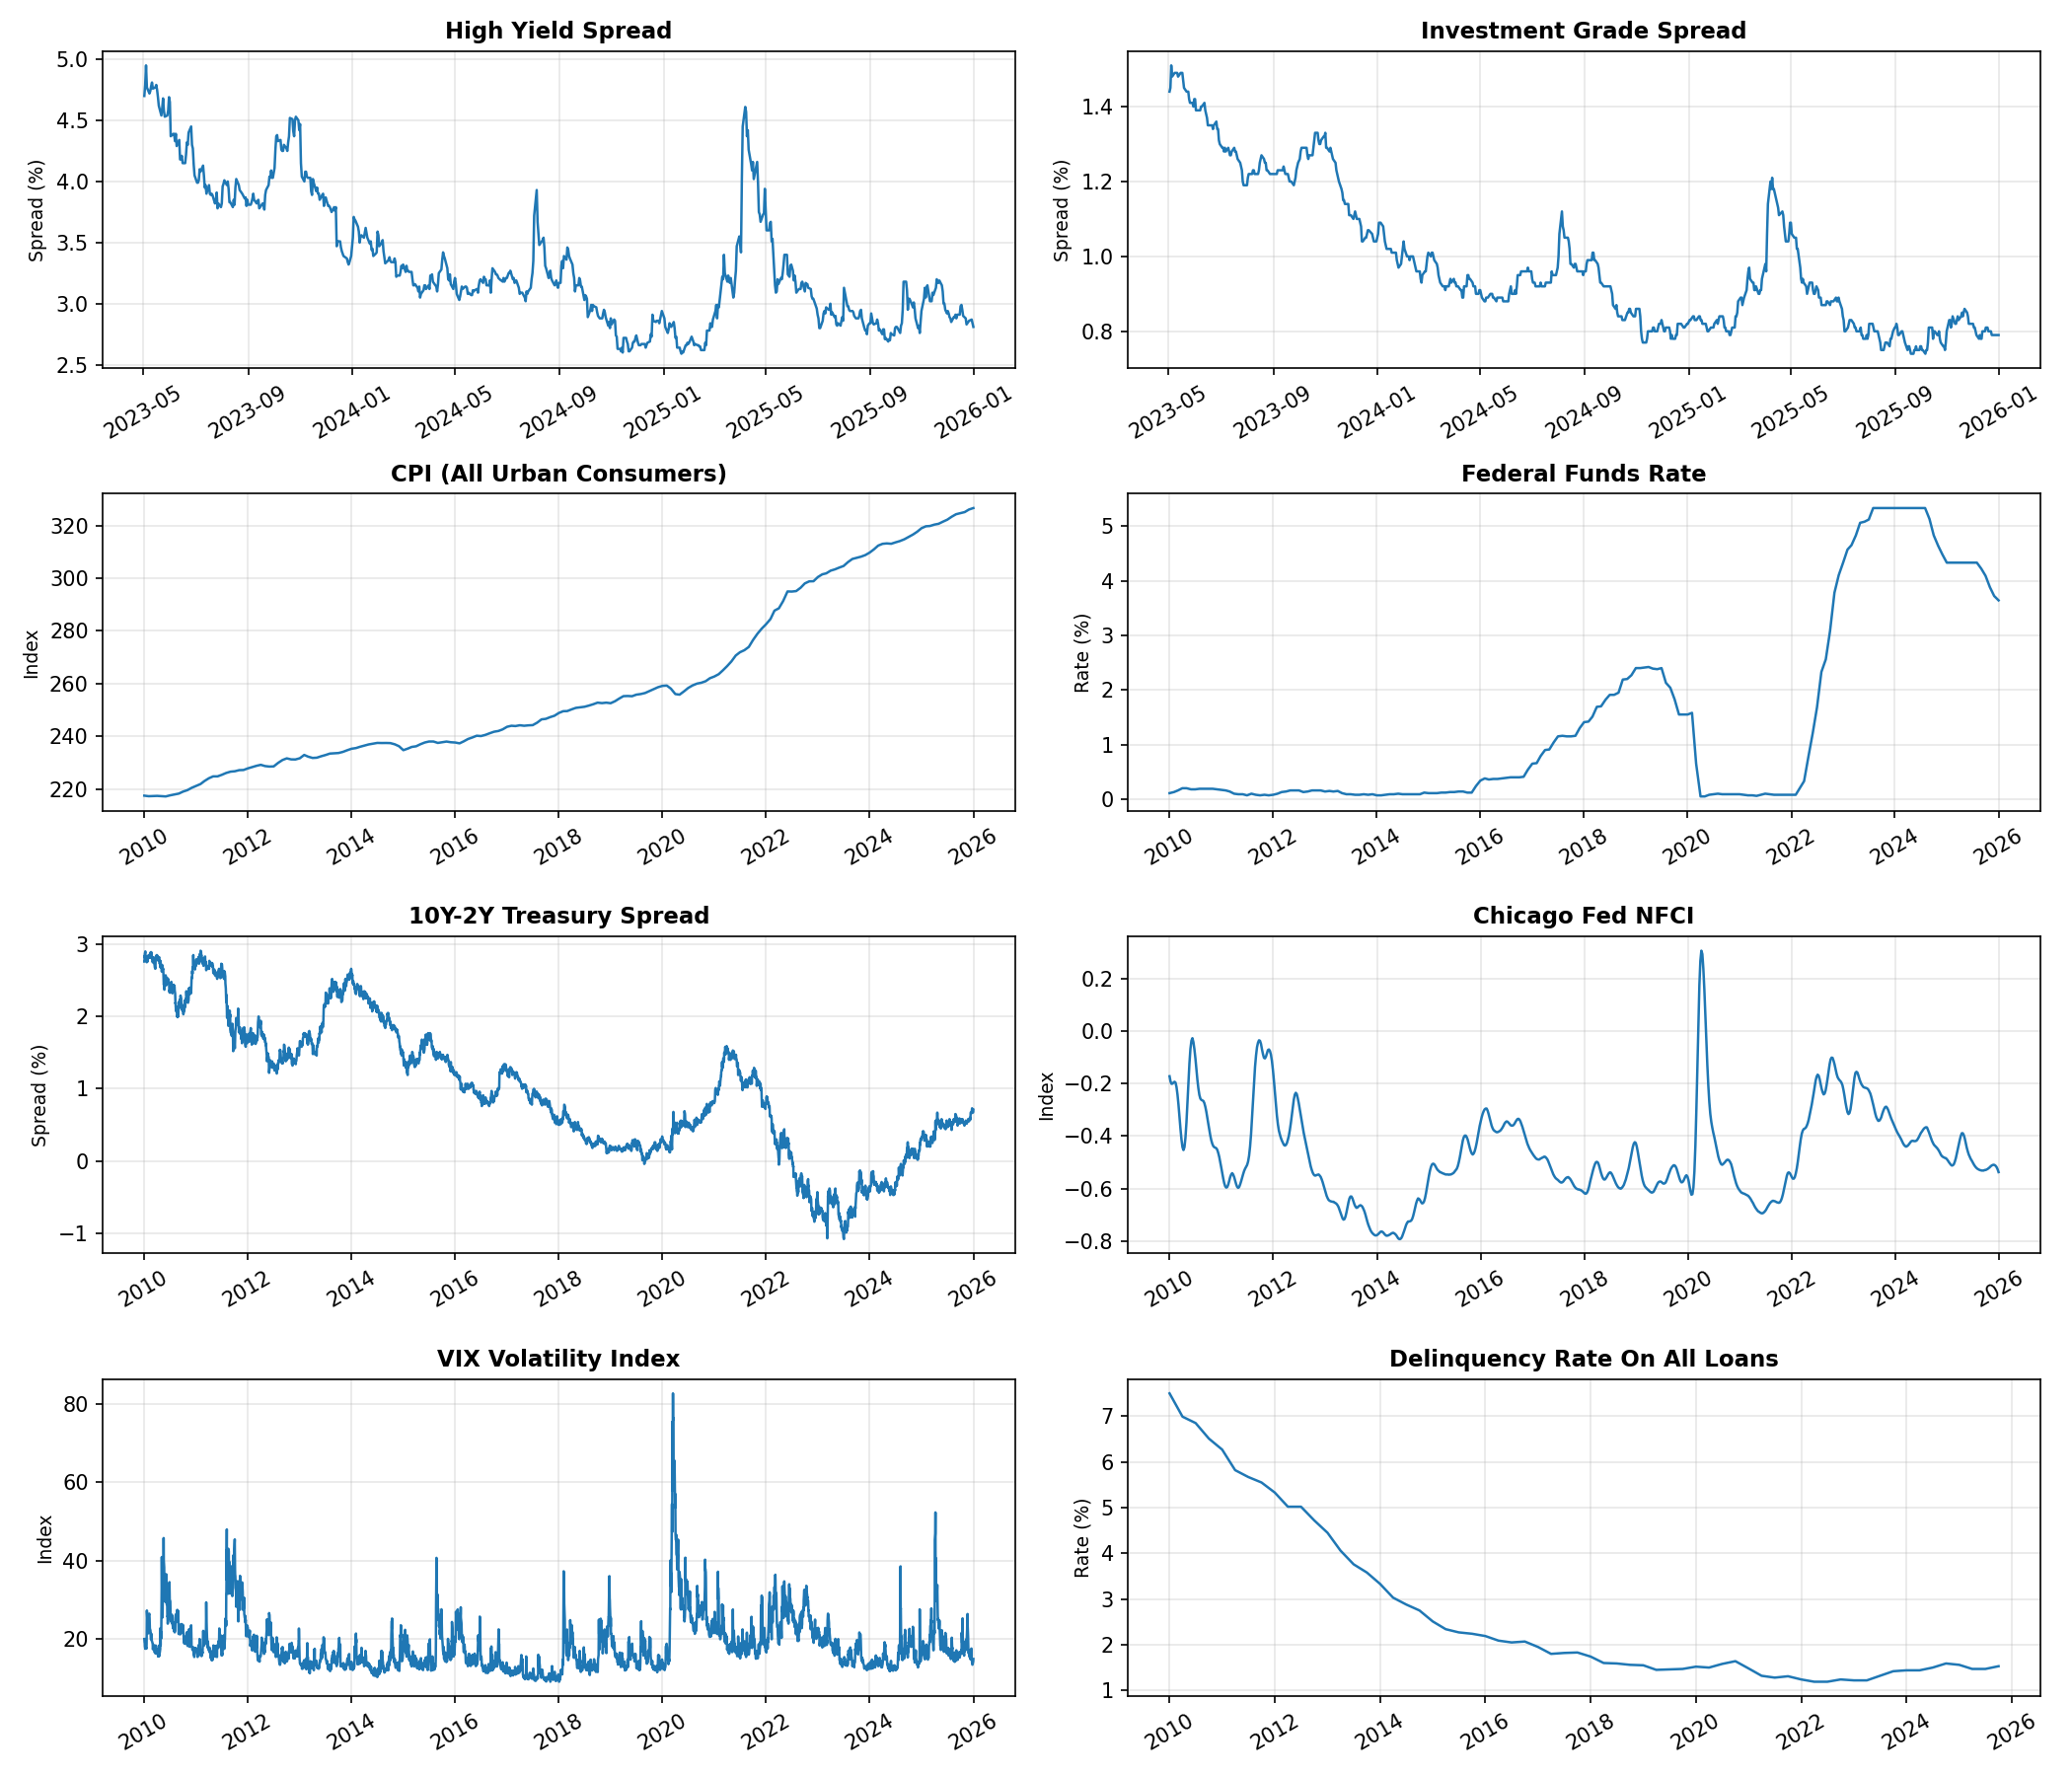
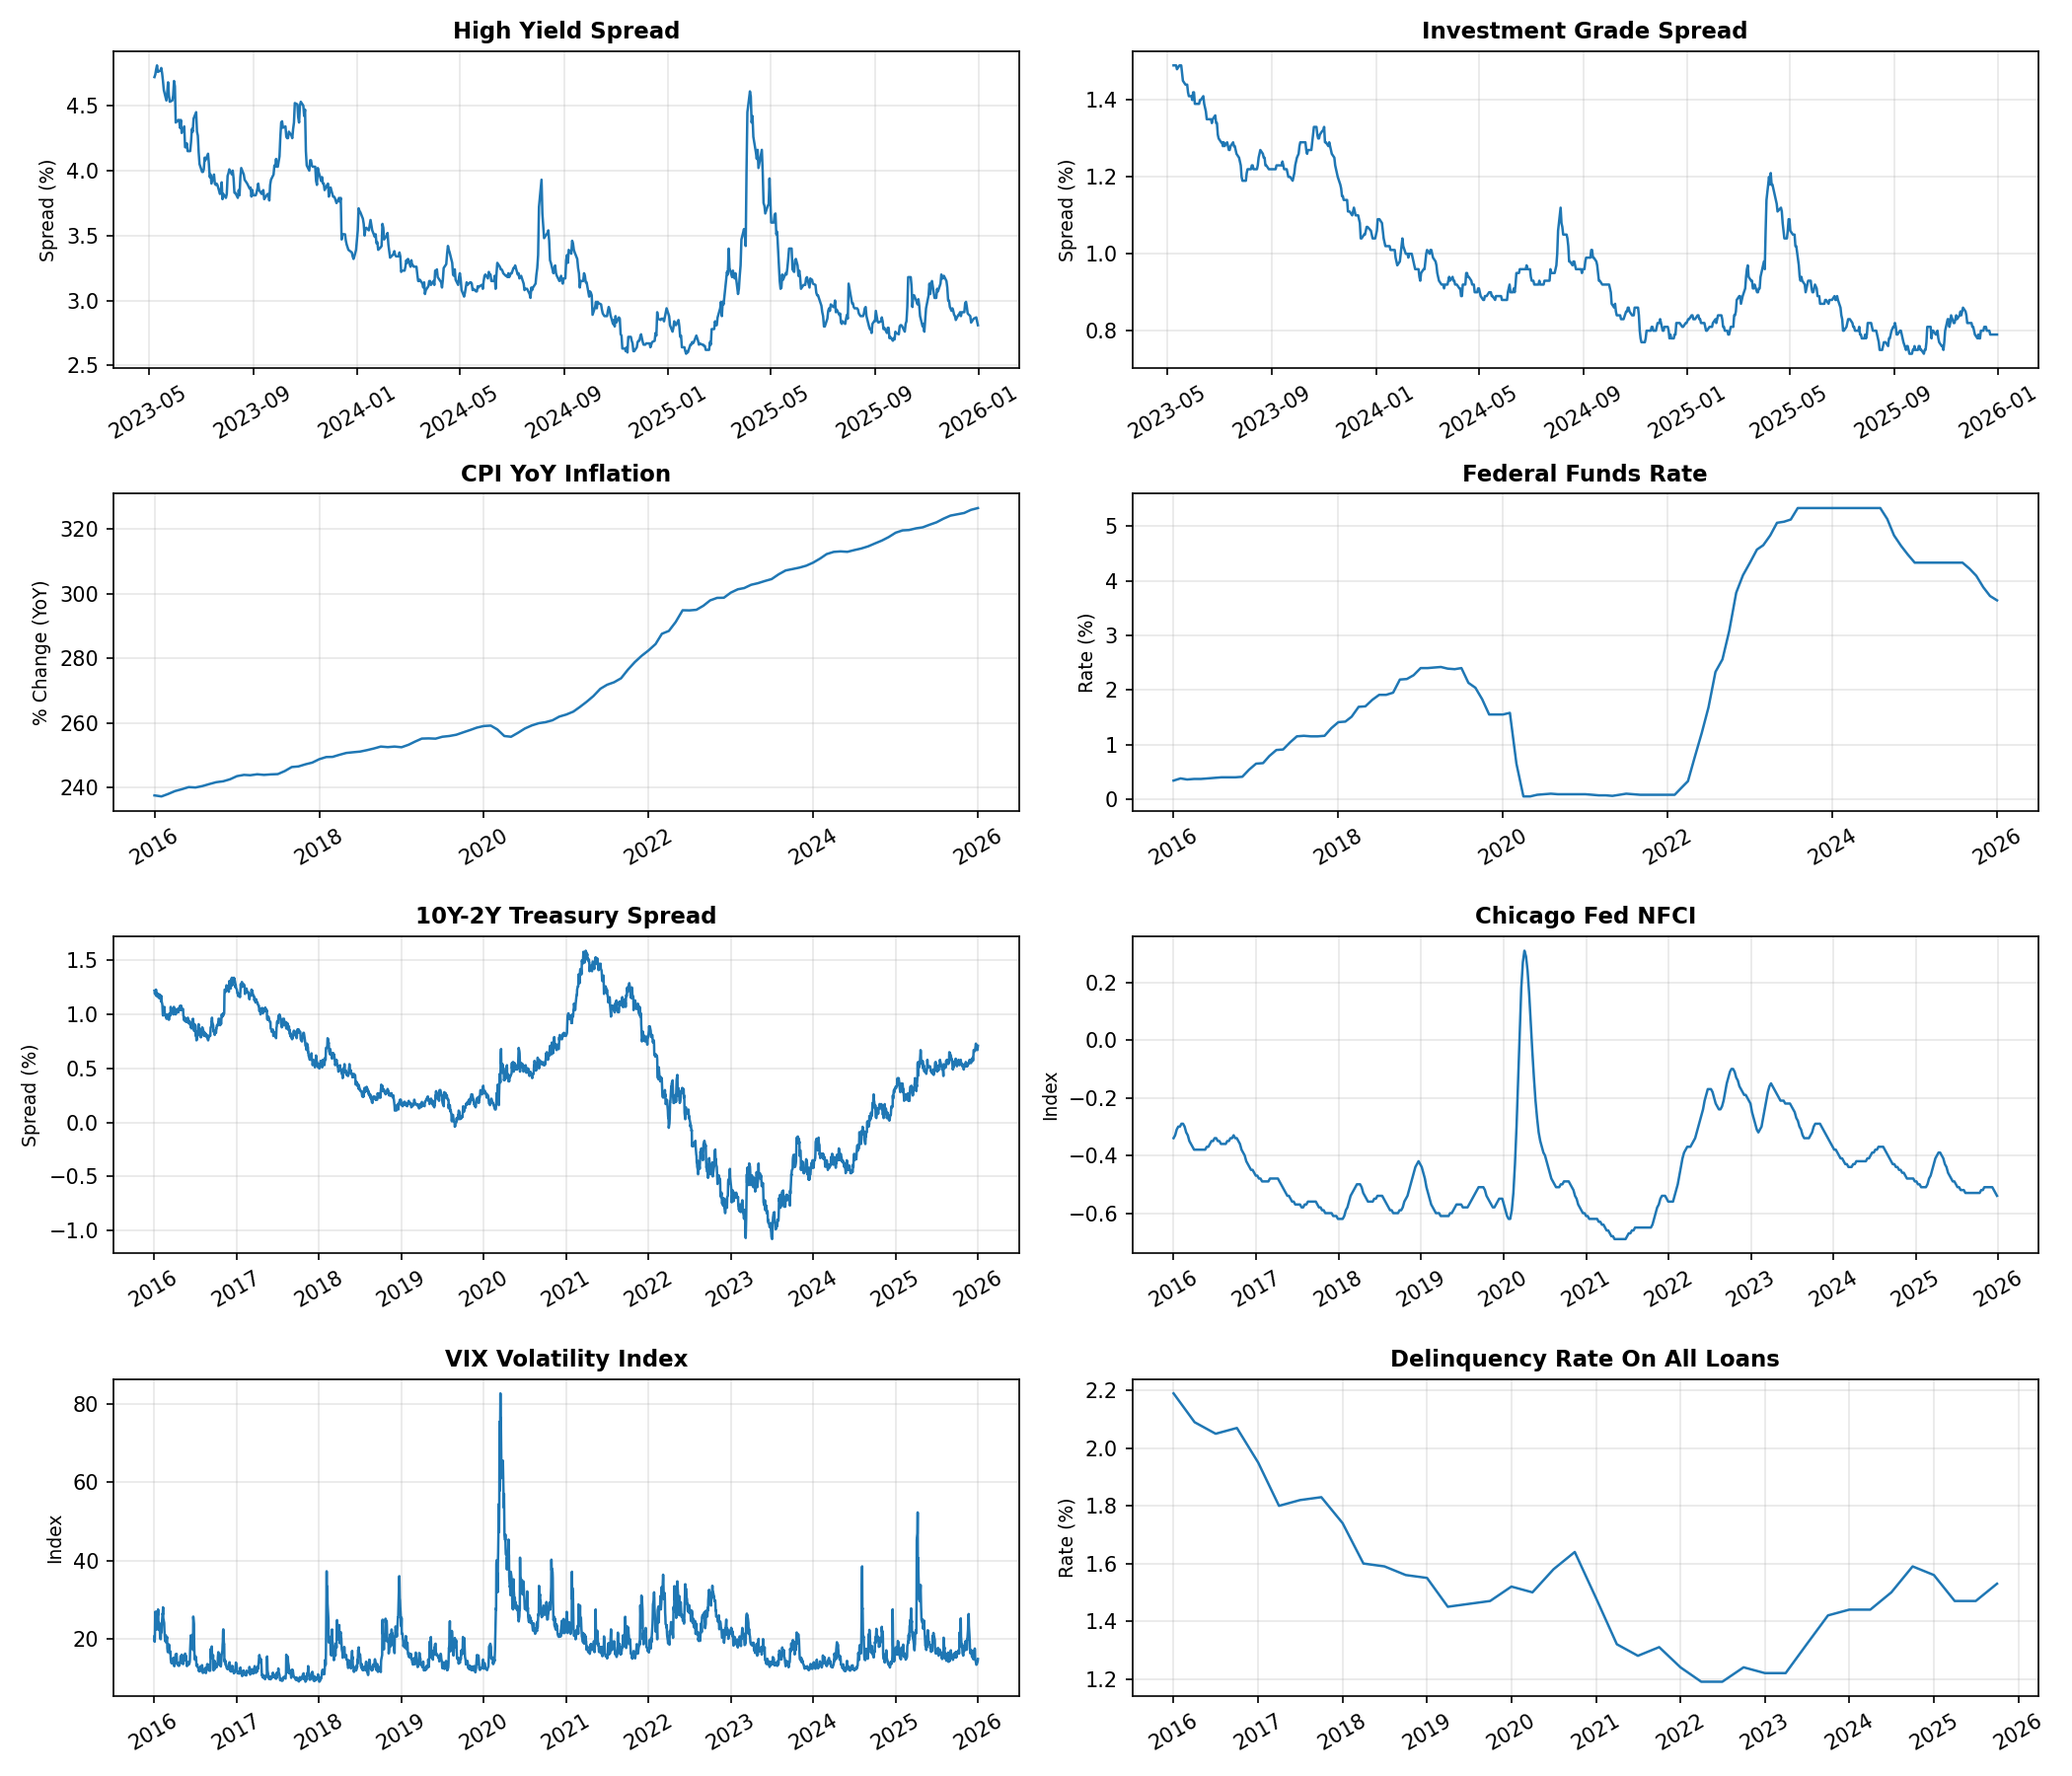
06/05/2026 updates, partially, still need OAS's!

diff --git a/main.py b/main.py
@@ -20,8 +20,9 @@ fred = Fred(api_key=FRED_API_KEY)
 # ----------------------------
 # Config
 # ----------------------------
-start_date = "2010-01-01"
+start_date = "2016-01-01"
 end_date = "2026-01-01"
+cpi_start_date = "2015-01-01"  # 12 months early to allow MoM rolling without losing 2016 data
 
 # ----------------------------
 # FRED series
@@ -29,7 +30,6 @@ end_date = "2026-01-01"
 fred_series = {
     "hy_spread": "BAMLH0A0HYM2",
     "ig_spread": "BAMLC0A0CM",
-    "cpi": "CPIAUCSL",
     "fed_funds": "FEDFUNDS",
     "yield_curve": "T10Y2Y",
     "nfci": "NFCI",
@@ -40,6 +40,10 @@ df_fred = pd.DataFrame({
     name: fred.get_series(code, observation_start=start_date, observation_end=end_date)
     for name, code in fred_series.items()
 })
+
+# Fetch CPI separately with extended start
+cpi_series = fred.get_series("CPIAUCSL", observation_start=cpi_start_date, observation_end=end_date)
+df_fred["cpi"] = cpi_series
 
 # ----------------------------
 # Market data
@@ -63,7 +67,7 @@ df_all = df_fred.join(df_market, how="outer")
 series_info = {
     "hy_spread": ("High Yield Spread", "Spread (%)"),
     "ig_spread": ("Investment Grade Spread", "Spread (%)"),
-    "cpi": ("CPI (All Urban Consumers)", "Index"),
+    "cpi": ("CPI YoY Inflation", "% Change (YoY)"),
     "fed_funds": ("Federal Funds Rate", "Rate (%)"),
     "yield_curve": ("10Y-2Y Treasury Spread", "Spread (%)"),
     "nfci": ("Chicago Fed NFCI", "Index"),
@@ -90,31 +94,29 @@ plt.show()
 # ----------------------------
 # Resample all series to monthly
 # ----------------------------
-df_monthly = pd.DataFrame(index=pd.date_range(start=start_date, end=end_date, freq='MS'))
+df_monthly_raw = pd.DataFrame(index=pd.date_range(start=cpi_start_date, end=end_date, freq='MS'))
 
 for col in df_all.columns:
     series = df_all[col].dropna()
     
-    # Detect frequency by looking at median gap between observations
     if len(series) < 2:
         continue
     
     gaps = series.index.to_series().diff().dt.days.dropna()
     median_gap = gaps.median()
     
-    if median_gap <= 7:
-        # Daily → resample to monthly mean
-        monthly = series.resample('MS').mean()
-    elif median_gap <= 35:
-        # Already monthly → resample to align to month-start
+    if median_gap <= 35:
         monthly = series.resample('MS').mean()
     else:
-        # Quarterly (or lower frequency) → forward-fill across months
         monthly = series.resample('MS').ffill()
     
-    df_monthly[col] = monthly
+    df_monthly_raw[col] = monthly
 
-df_monthly = df_monthly.dropna(how='all')
+# Convert CPI to MoM % change then trim to main start_date
+df_monthly_raw["cpi"] = df_monthly_raw["cpi"].pct_change(1) * 100
+
+# Final clean monthly dataframe trimmed to your actual study period
+df_monthly = df_monthly_raw.loc[start_date:].dropna(how='all')
 
 # ----------------------------
 # Plot monthly resampled series